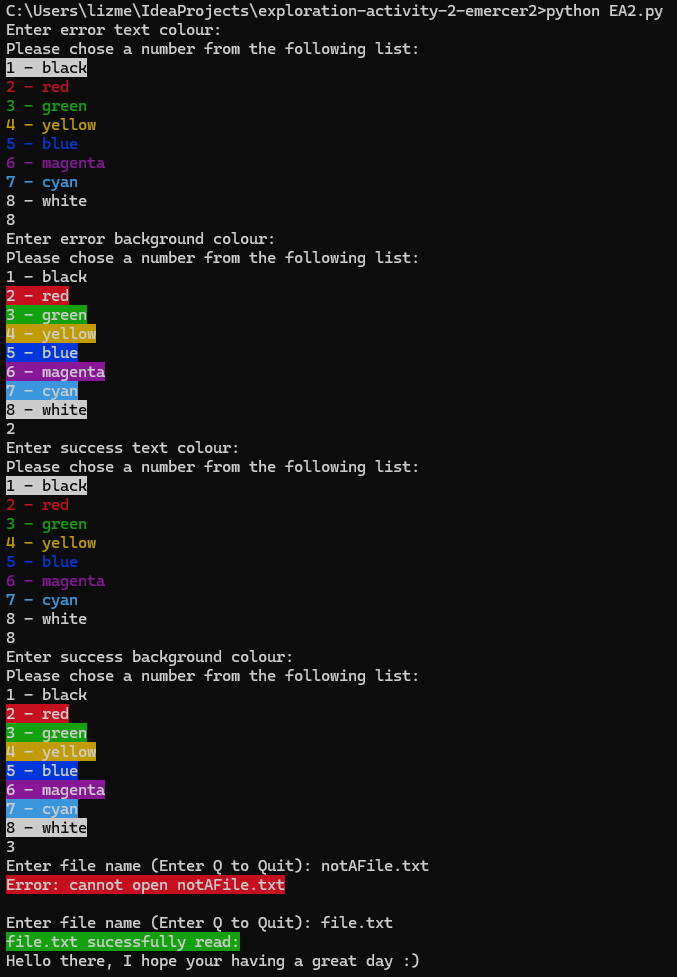
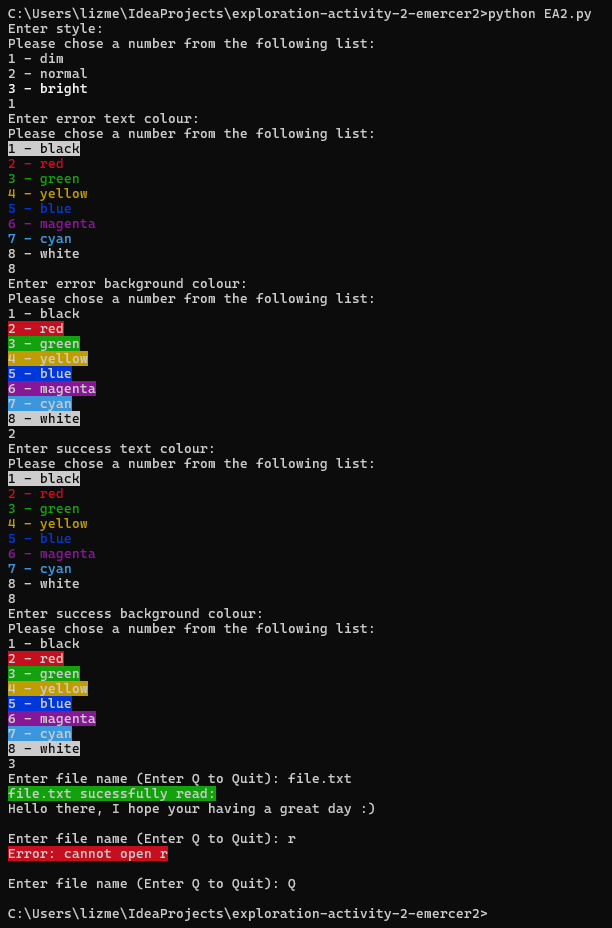
ver 11

Changed region(s): [[0.0, 0.0, 0.9935, 1.0], [0.4346, 0.3125, 0.5899, 0.3438], [0.4346, 0.125, 0.5899, 0.1562]]

diff --git a/EA2.py b/EA2.py
@@ -25,6 +25,12 @@ def printBackColOp():
     print(Back.CYAN + "7 - cyan")
     print(Back.WHITE + Fore.BLACK + "8 - white")
 
+def printStyleOp():
+    print("Please chose a number from the following list:")
+    print(Style.DIM + "1 - dim")
+    print(Style.NORMAL + "2 - normal")
+    print(Style.BRIGHT + "3 - bright")
+
 def setErrorText():
     print("Enter error text colour:")
     printTextColOp()
@@ -124,7 +130,23 @@ def setSuccessBack():
             return Back.WHITE
         case _:
             setErrorBack()
-    
+
+def setStyle():
+    print("Enter style:")
+    printStyleOp()
+    style = input('')
+
+    match style:
+        case "1":
+            return Style.DIM
+        case "2":
+            return Style.NORMAL
+        case "3":
+            return Style.BRIGHT
+        case _:
+            setErrorBack()
+
+style = setStyle()    
 et = setErrorText()
 eb = setErrorBack()
 st = setSuccessText()
@@ -136,11 +158,11 @@ while not(file == "Q"):
     try:
         f1 = open(file, "r")
     except:
-        print(et + eb + "Error: cannot open " + file)
+        print(style + et + eb + "Error: cannot open " + file)
         print()
     else:
-        print(st + sb + str(file) + " sucessfully read:")
-        print(st + f1.read()) 
+        print(style + st + sb + str(file) + " sucessfully read:")
+        print(style + st + f1.read()) 
         print()
         f1.close()
 

diff --git a/README.md b/README.md
@@ -7,15 +7,18 @@ In exploration activity 2, I demonstrate features offered by the most recent ver
 ## 2. How does someone run your program?
 For this program please ensure you have [python](https://www.python.org/downloads/) installed on your computer before performing the following steps. 
 First download the code from [the GitHub repository](https://github.com/CS2613-WI24-FR01B/exploration-activity-2-emercer2).
-There are two files to note in this repository, 1.The python program, and 2.An example text file that can be used to test the program. <br>![Image of EA2.py python program, and file.txt example file in code editor](filesInEditor.png)<br>
+There are two files to note in this repository, (1) The python program, and (2) An example text file that can be used to test the program. <br>![Image of EA2.py python program, and file.txt example file in code editor](filesInEditor.png)<br>
 <br>To run the python program you will need to install colorama using pip install in the terminal, 'pip install colorama'. 
 <br>After that you can run the program through the terminal using 'python EA2.py'. From there simply respond to the prompts given by the program.
 
 ## 3. What purpose does your program serve?
-This program allows Windows users to experiment with coloured text through the terminal. My program asks the users to set the text and background colours they would like for success and error messages. Then the program tries to open a given file and uses the colours specified when printing if the file was successfully opened.
+This program allows Windows users to experiment with coloured text through the terminal. My program asks the users to set the text colour, style, and background colour they would like for success and error messages. Then the program tries to open a given file and uses the colours specified when printing if the file was successfully opened.
 
 ## 4. What would be some sample input/output?
-The program will walk you through setting colours for error and success text and background. There are four colours for the user to set, error text, error background, success text, and success background. Each colour has a similar prompt to one of the following:<br>
+The program will walk you through setting the style and colours for error and success messages text and background. There are one style and four colours for the user to set, error text, error background, success text, and success background.<br>
+The style prompt looks like this:<br>
+![Image of background style selection screen](styleChoice.png)
+Each colour has a similar prompt to one of the following:<br>
 ![Image of text colour selection screen for success message](textColorChoice.png)![Image of background colour selection screen for success message](BackColorChoice.png)<br>
 The expected input is one of the 8 numbers listed, if input does not match the user will be prompted again.<br><br>
 After all four colours are selected the user will be asked to give a file name.<br>
@@ -23,5 +26,5 @@ After all four colours are selected the user will be asked to give a file name.<
 If the file name exists in the directory a success message and the file contents are printed in the appropriate colours.<br>
 Otherwise a error message will appear with the appropriate colours applied.<br>
 Either way the user will then be asked be asked to enter another file name until they enter "Q" as the file name.<br><br>
-For example, if the numbers 8, 2, 8, 3 (error text, error background, success text, success background) were chosen before entering a file name, errors should appear with white text and a red background and success messages should appear with white text and a green background.<br>
-![Image of test case discussed](example.png)<br>
+For example, if the numbers 3, 8, 2, 8, 3 (style, error text, error background, success text, success background) were chosen before entering a file name, errors should appear with white text and a red background and success messages should appear with white text and a green background.<br>
+![Image of test case discussed](example.png)

diff --git a/LibOverview.md b/LibOverview.md
@@ -1,29 +1,63 @@
 # Library Overview - Colorama
-## 1. Which package/library did you select?
+## 1. Which package/library did you select? 
 For exploration activity 2 I chose the python library [Colorama](https://pypi.org/project/colorama/).
 
-## 2. What is the package/library?
+## 2. What is the package/library? **
 ### • What purpose does it serve?
 ### • How do you use it?
 ### • This section should be the largest and go into lots of detail. Not everything here must be utilized in your sample program.
-The purpose of this library is to allow windows users the same coloured output functionality as IOS. By installing the library and using the predetermined variables windows users ain access to a wide variety of colours and terminal text styles.
 
-## 3. What are the functionalities of the package/library?
+Colorama allows Windows users easy access to variuos terminal text styles that are already present in IOS systems. Using this library text can be changed in three different ways in a clean easy to use format. The three different ways text can be changed with this library include style, text colour, and background colour. With a variety of two different functioning styles and 8 colours many text styling combinations are now possible for terminal output. <br><br>
+
+The styles offered include:
+- dim (currently non-functioning, appears as normal)
+- normal
+- bright<br>
+![Image of background style selection screen](styleChoice.png)
+
+The colours offered for text and backgrounds include:
+- Black
+- Red 
+- Green
+- Yellow
+- Blue
+- Magenta
+- Cyan
+- White<br>
+![Image of text colour selection screen for success message](textColorChoice.png)![Image of background colour selection screen for success message](BackColorChoice.png)<br>
+
+#how library is applied to text about specfic calls
+
+#how i used it
+
+
+
+
+
+## 3. What are the functionalities of the package/library? **
 ### • Snippets of code and examples of output should be given here.
+
+
 This library has the capability to style text is three different ways. Style, text colour, and background colour.
 
 ## 4. When was it created?
 The latest release of [Colorama](https://pypi.org/project/colorama/) (0.4.6) was released October 24th 2022.
 
-## 5. Why did you select this package/library?
+## 5. Why did you select this package/library? **
 ### • “Because it is interesting” is not a valid answer. Should elaborate more.
+
+
 I chose this library because I felt it could bring extra clarity to my I/O in future and i did not already know how to colour test through python programs. 
 
-## 6. How did learning the package/library influence your learning of the language?
+## 6. How did learning the package/library influence your learning of the language? **
+
+
 While experiement I got to learn about how to print literals in python even though I didnt use it in the end product.
 
-## 7. How was your overall experience with the package/library?
+## 7. How was your overall experience with the package/library? **
 ### • When would you recommend this package/library to someone?
 ### • Would you continue using this package/library? Why or why not
+
+
 I had a great experience with this library, although there were sometroubles along the way. For one my terminal in VSCode was not showing the same colours as my windows terminal, this confused at first after some research it looks like this may be due to some sort of setting in VSCode. I would definately use this library again if the oppertunity arose.
 
